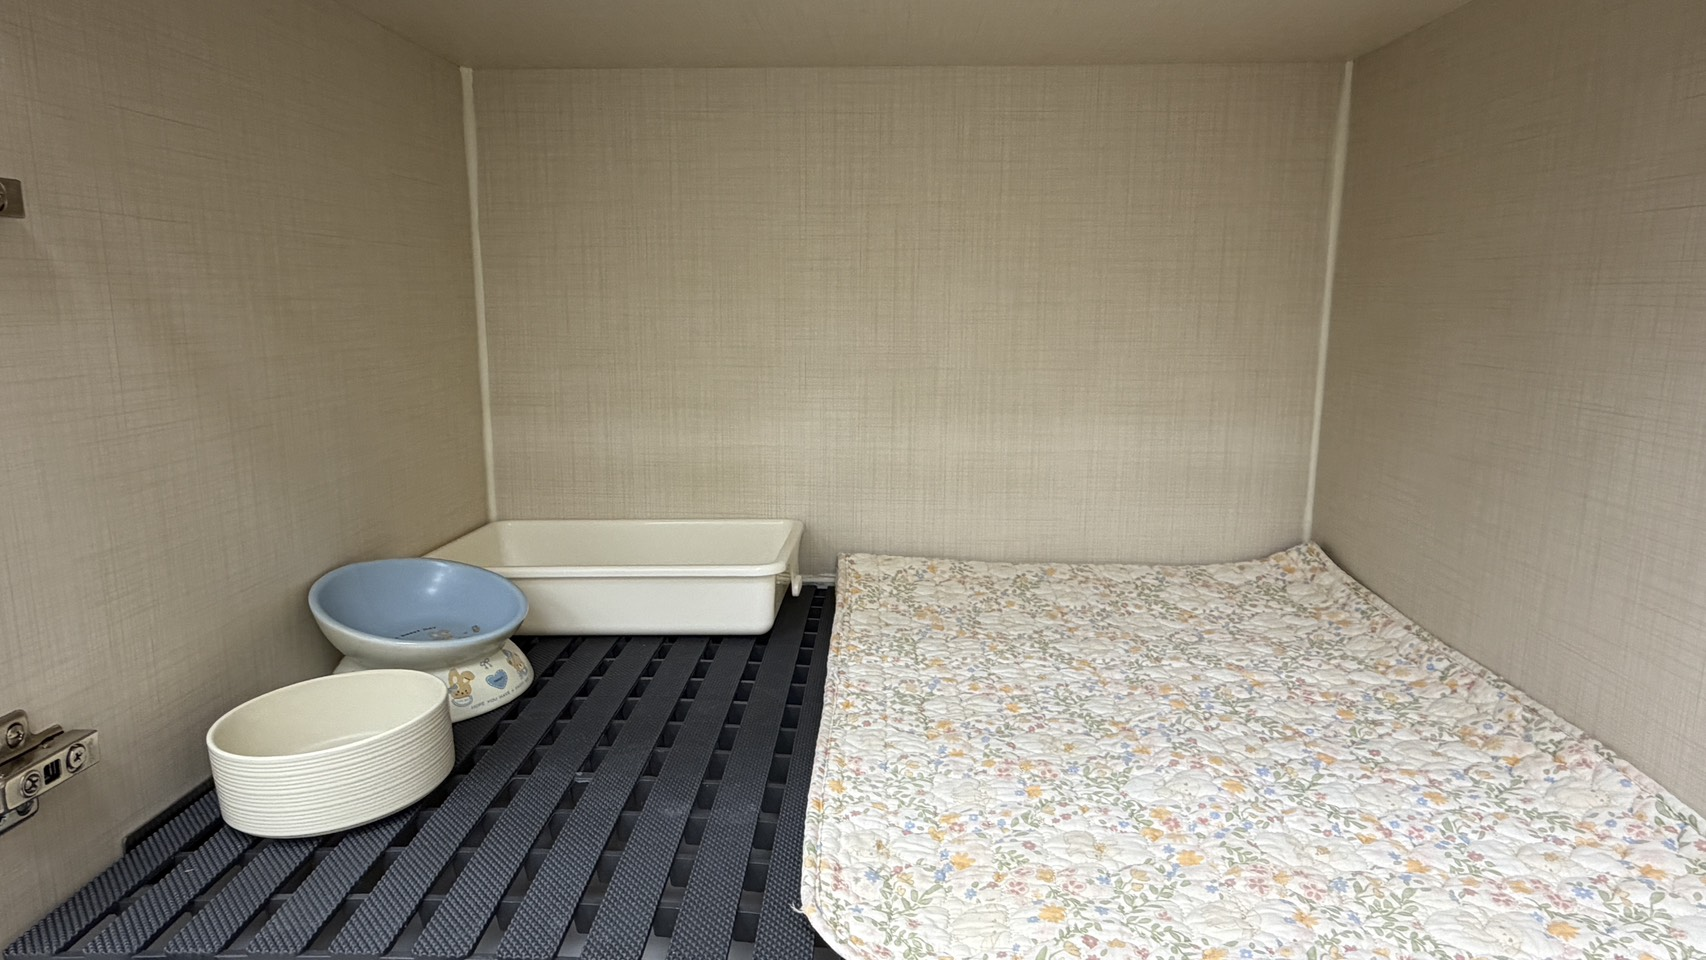
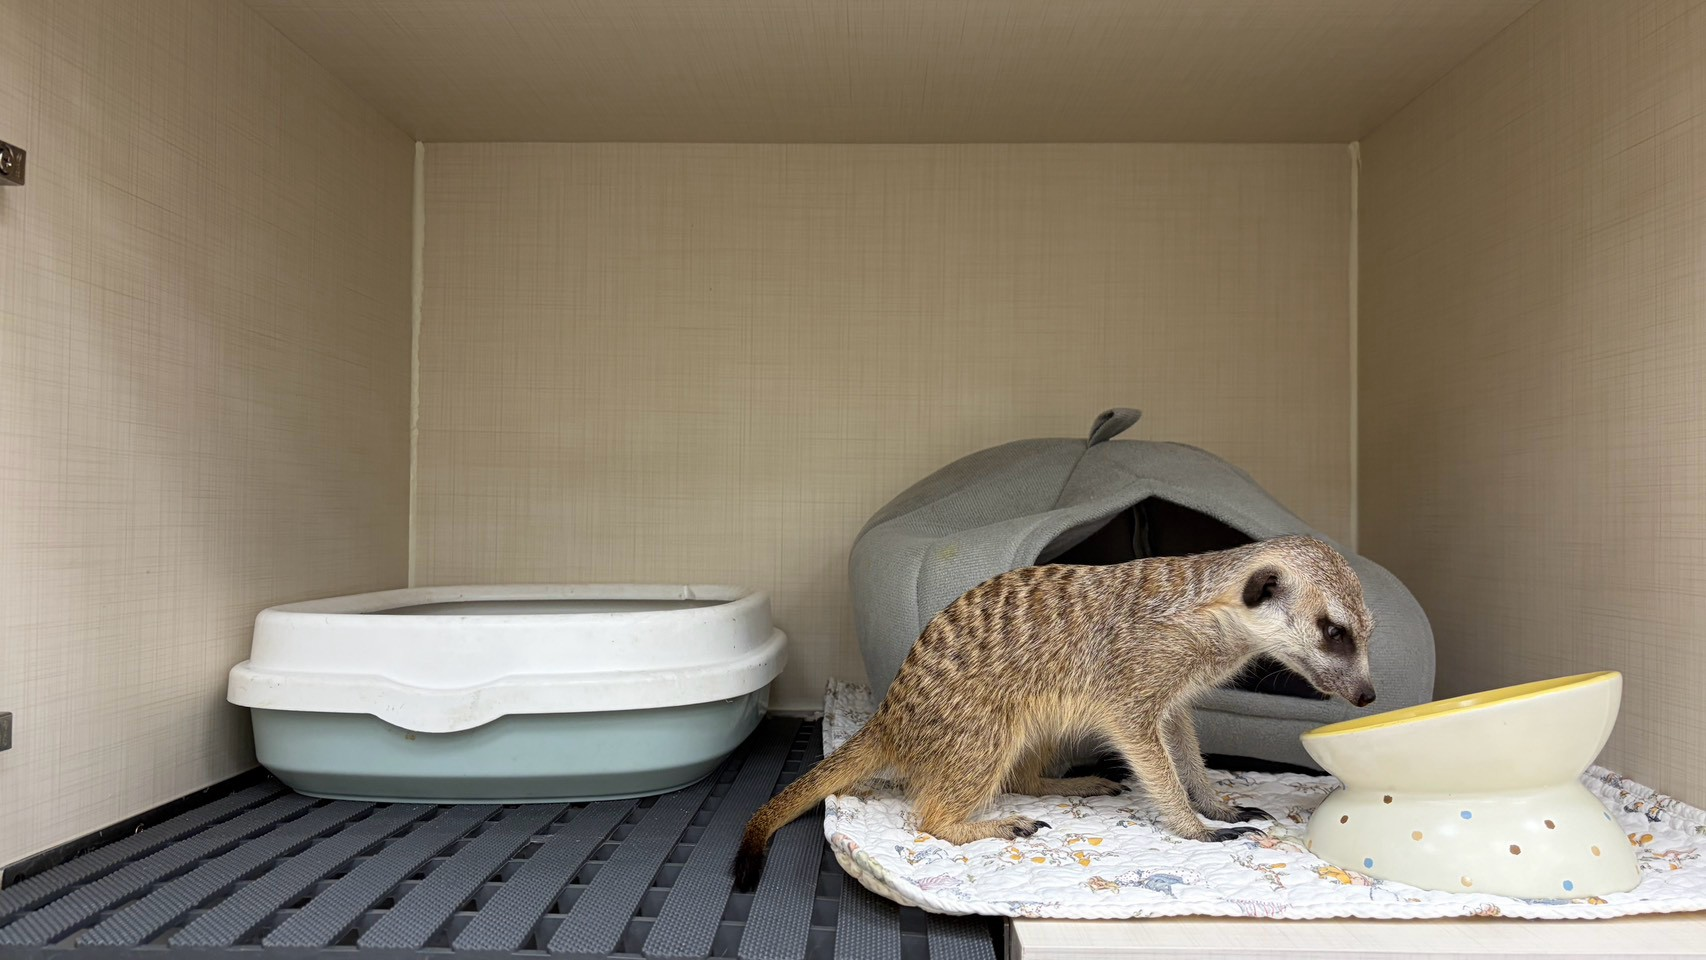
Add files via upload

diff --git a/price.html b/price.html
@@ -514,7 +514,7 @@
                             <ul class="feature-list">
                                 <li><i class="fas fa-vector-square"></i><span><strong>尺寸：</strong>長 170 x 寬 120 x 高 117 cm</span></li>
                                 <li><i class="fas fa-door-open"></i><span><strong>放風：</strong>245×330公分寬敞專區。每日基本30分鐘(依體能延長)。獨立放風不混接，多寶家庭欲同時放風請主動提出。</span></li>
-                                <li><i class="fas fa-couch"></i><span><strong>設備：</strong>水盆/水瓶、便盆、牧草架 <span class="text-muted small">(可租借圍欄格柵$50/日)</span></span></li>
+                                <li><i class="fas fa-couch"></i><span><strong>設備：</strong>水盆/水瓶、便盆、牧草架 <span class="text-muted small">
                                 <li><i class="fas fa-utensils"></i><span><strong>餐食：</strong>早晚提供混合飼料、無限量提摩西二割、每日蔬菜。</span></li>
                             </ul>
                             
@@ -806,7 +806,7 @@
                         <div class="card-gallery-wrap">
                             <div class="room-gallery">
                                 <img src="M1.jpg" class="gallery-img">
-                                <div class="gallery-placeholder">待更新</div>
+                                <img src="M2.jpg" class="gallery-img">
                                 <div class="gallery-placeholder">待更新</div>
                             </div>
                         </div>
@@ -887,7 +887,7 @@
                         <div class="card-gallery-wrap">
                             <div class="room-gallery">
                                 <img src="H1.jpg" class="gallery-img">
-                                <div class="gallery-placeholder">待更新</div>
+                                <img src="H5.jpg" class="gallery-img">
                                 <div class="gallery-placeholder">待更新</div>
                             </div>
                         </div>
@@ -975,7 +975,7 @@
                             <div class="room-gallery">
                                 <img src="N1.jpg" class="gallery-img">
                                 <img src="N2.jpg" class="gallery-img">
-                                <div class="gallery-placeholder">待更新</div>
+                                <img src="N3.jpg" class="gallery-img">
                             </div>
                         </div>
                         <div class="card-info-wrap">
